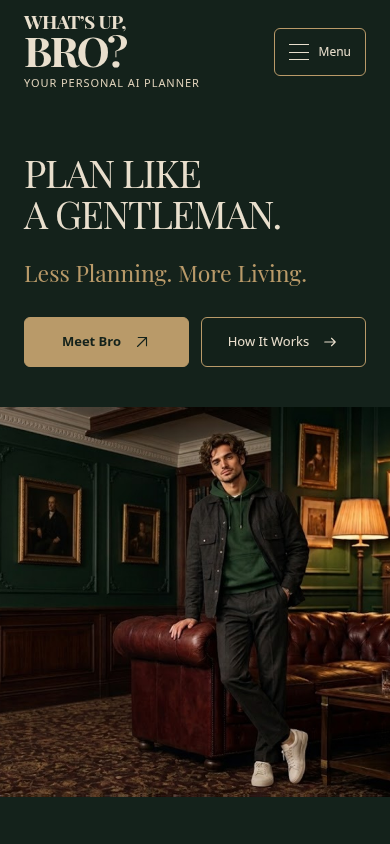
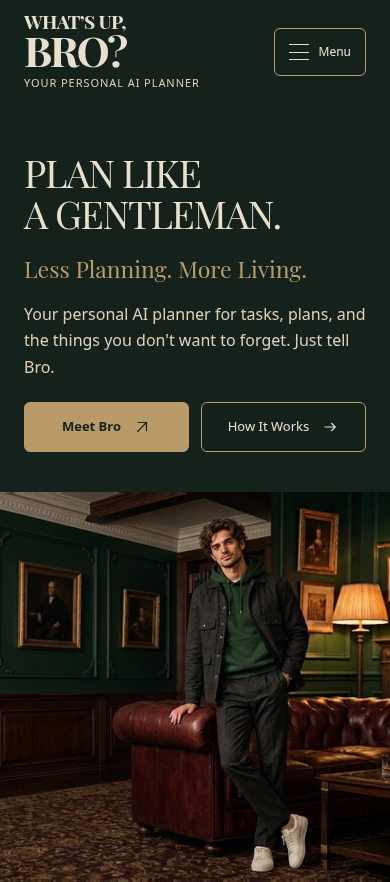
Refine Hero copy and vertical composition for review v1.1

diff --git a/index.html b/index.html
@@ -99,14 +99,15 @@
       content: ''; position: absolute; inset: 0; z-index: -1; pointer-events: none;
       background: linear-gradient(90deg, rgb(20 34 27 / .38), rgb(20 34 27 / .12) 38%, transparent 57%);
     }
-    .hero-content { width: min(49%, 800px); margin-top: clamp(70px, 10vh, 170px); }
+    .hero-content { width: min(49%, 800px); }
     .hero-title {
       font: 400 clamp(44px, 4.5vw, 76px)/1.07 var(--display);
       letter-spacing: -.035em; color: var(--ivory);
     }
     .hero-title span { display: block; }
-    .hero-tagline { margin-top: 24px; font: 400 clamp(23px, 1.85vw, 30px)/1.4 var(--display); color: var(--brass); }
-    .hero-actions { display: flex; flex-wrap: wrap; gap: 16px; margin-top: 34px; }
+    .hero-tagline { margin-top: 18px; font: 400 clamp(23px, 1.85vw, 30px)/1.4 var(--display); color: var(--brass); }
+    .hero-description { max-width: 46ch; margin-top: 16px; color: var(--warm-text); font-size: 16px; line-height: 1.65; }
+    .hero-actions { display: flex; flex-wrap: wrap; gap: 16px; margin-top: 24px; }
     .hero-actions .button { min-width: 170px; }
     .notice {
       position: fixed; z-index: 20; right: var(--page-gutter); bottom: 24px;
@@ -117,12 +118,8 @@
       font-size: 14px;
     }
     .notice-close { display: grid; place-items: center; width: 44px; height: 44px; padding: 0; border: 0; background: transparent; color: var(--ivory); font-size: 24px; }
-    @media (min-width: 1800px) {
-      .hero-content { margin-top: 12vh; }
-    }
     @media (min-width: 1101px) and (max-height: 650px) {
       .hero { min-height: 650px; padding-bottom: 60px; }
-      .hero-content { margin-top: 45px; }
     }
 
     /* A disclosure menu avoids empty sections and stays usable on touch screens. */
@@ -155,8 +152,8 @@
       .hero::before { display: none; }
       .hero-content { order: 0; width: 100%; margin-top: 0; padding: 48px var(--page-gutter) 40px; }
       .hero-title { font-size: clamp(38px, 9.8vw, 54px); line-height: 1.08; }
-      .hero-tagline { margin-top: 22px; font-size: 23px; }
-      .hero-actions { margin-top: 28px; gap: 12px; }
+      .hero-tagline { margin-top: 18px; font-size: 23px; }
+      .hero-actions { margin-top: 22px; gap: 12px; }
       .hero-actions .button { min-width: 0; flex: 1 1 145px; padding-inline: 16px; gap: 12px; }
       .hero-scene { position: relative; inset: auto; order: 1; width: 100%; aspect-ratio: 1 / 1; z-index: 0; overflow: hidden; }
       .hero-photo { object-position: 78% 50%; }
@@ -199,6 +196,7 @@
       <div class="hero-content">
         <h1 class="hero-title" id="hero-title" tabindex="-1"><span>PLAN LIKE</span><span>A GENTLEMAN.</span></h1>
         <p class="hero-tagline">Less Planning. More Living.</p>
+        <p class="hero-description">Your personal AI planner for tasks, plans, and the things you don't want to forget. Just tell Bro.</p>
         <div class="hero-actions">
           <button class="button" type="button" data-coming-soon>Meet Bro <svg class="arrow" viewBox="0 0 24 24" aria-hidden="true"><path d="M6 18 18 6M7 6h11v11"/></svg></button>
           <button class="button button-outline" type="button" data-coming-soon>How It Works <svg class="arrow" viewBox="0 0 24 24" aria-hidden="true"><path d="M5 12h14m-5-5 5 5-5 5"/></svg></button>
